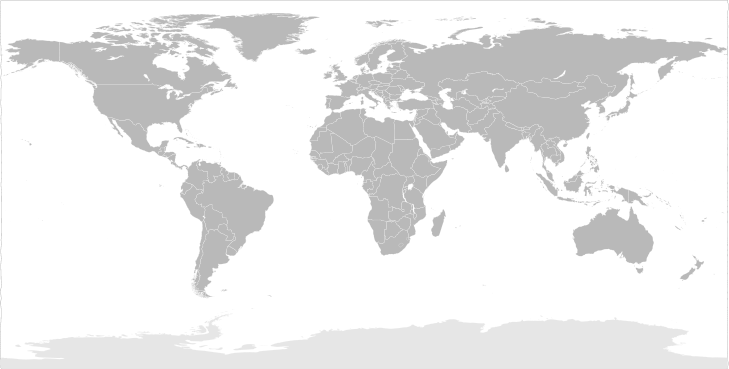
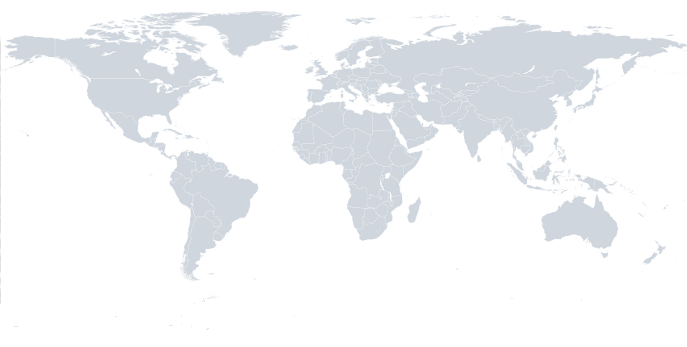
Removed unused imgs from public, added new world map

diff --git a/public/js/dashboard.js b/public/js/dashboard.js
@@ -1,5 +1,57 @@
 /*global $ */
 
+var countries = { "--": "N/A", "AP": "Asia/Pacific Region","EU": "Europe","AD":"Andorra","AE":"United Arab Emirates",
+	  "AF": "Afghanistan","AG":"Antigua and Barbuda","AI":"Anguilla","AL":"Albania","AM":"Armenia","AN":"Netherlands Antilles",
+	  "AO":"Angola","AQ":"Antarctica","AR":"Argentina","AS":"American Samoa","AT":"Austria","AU":"Australia","AW":"Aruba",
+	  "AZ":"Azerbaijan","BA":"Bosnia and Herzegovina","BB":"Barbados",
+	  "BD":"Bangladesh","BE":"Belgium","BF":"Burkina Faso","BG":"Bulgaria","BH":"Bahrain","BI":"Burundi","BJ":"Benin",
+	  "BM":"Bermuda","BN":"Brunei Darussalam","BO":"Bolivia",
+	  "BR":"Brazil","BS":"Bahamas","BT":"Bhutan","BV":"Bouvet Island","BW":"Botswana","BY":"Belarus","BZ":"Belize",
+	  "CA":"Canada","CC":"Cocos (Keeling) Islands","CD":"Congo, The Democratic Republic of the",
+	  "CF":"Central African Republic","CG":"Congo","CH":"Switzerland","CI":"Cote D'Ivoire","CK":"Cook Islands",
+	  "CL":"Chile","CM":"Cameroon","CN":"China","CO":"Colombia","CR":"Costa Rica",
+	  "CU":"Cuba","CV":"Cape Verde","CX":"Christmas Island","CY":"Cyprus","CZ":"Czech Republic","DE":"Germany","DJ":"Djibouti",
+	  "DK":"Denmark","DM":"Dominica","DO":"Dominican Republic",
+	  "DZ":"Algeria","EC":"Ecuador","EE":"Estonia","EG":"Egypt","EH":"Western Sahara","ER":"Eritrea","ES":"Spain","ET":"Ethiopia",
+	  "FI":"Finland","FJ":"Fiji",
+	  "FK":"Falkland Islands (Malvinas)","FM":"Micronesia, Federated States of","FO":"Faroe Islands","FR":"France","FX":"France, Metropolitan",
+	  "GA":"Gabon","GB":"United Kingdom","GD":"Grenada","GE":"Georgia","GF":"French Guiana",
+	  "GH":"Ghana","GI":"Gibraltar","GL":"Greenland","GM":"Gambia","GN":"Guinea","GP":"Guadeloupe","GQ":"Equatorial Guinea",
+	  "GR":"Greece","GS":"South Georgia and the South Sandwich Islands","GT":"Guatemala",
+	  "GU":"Guam","GW":"Guinea-Bissau","GY":"Guyana","HK":"Hong Kong","HM":"Heard Island and McDonald Islands","HN":"Honduras",
+	  "HR":"Croatia","HT":"Haiti","HU":"Hungary","ID":"Indonesia",
+	  "IE":"Ireland","IL":"Israel","IN":"India","IO":"British Indian Ocean Territory","IQ":"Iraq","IR":"Iran, Islamic Republic of",
+	  "IS":"Iceland","IT":"Italy","JM":"Jamaica","JO":"Jordan",
+	  "JP":"Japan","KE":"Kenya","KG":"Kyrgyzstan","KH":"Cambodia","KI":"Kiribati","KM":"Comoros","KN":"Saint Kitts and Nevis",
+	  "KP":"Korea, Democratic People's Republic of","KR":"Korea, Republic of","KW":"Kuwait",
+	  "KY":"Cayman Islands","KZ":"Kazakhstan","LA":"Lao People's Democratic Republic","LB":"Lebanon","LC":"Saint Lucia",
+	  "LI":"Liechtenstein","LK":"Sri Lanka","LR":"Liberia","LS":"Lesotho","LT":"Lithuania",
+	  "LU":"Luxembourg","LV":"Latvia","LY":"Libyan Arab Jamahiriya","MA":"Morocco","MC":"Monaco","MD":"Moldova, Republic of",
+	  "MG":"Madagascar","MH":"Marshall Islands","MK":"Macedonia","ML":"Mali",
+	  "MM":"Myanmar","MN":"Mongolia","MO":"Macau","MP":"Northern Mariana Islands","MQ":"Martinique","MR":"Mauritania",
+	  "MS":"Montserrat","MT":"Malta","MU":"Mauritius","MV":"Maldives",
+	  "MW":"Malawi","MX":"Mexico","MY":"Malaysia","MZ":"Mozambique","NA":"Namibia","NC":"New Caledonia","NE":"Niger",
+	  "NF":"Norfolk Island","NG":"Nigeria","NI":"Nicaragua",
+	  "NL":"Netherlands","NO":"Norway","NP":"Nepal","NR":"Nauru","NU":"Niue","NZ":"New Zealand","OM":"Oman","PA":"Panama","PE":"Peru",
+	  "PF":"French Polynesia",
+	  "PG":"Papua New Guinea","PH":"Philippines","PK":"Pakistan","PL":"Poland","PM":"Saint Pierre and Miquelon",
+	  "PN":"Pitcairn Islands","PR":"Puerto Rico","PS":"Palestinian Territory","PT":"Portugal","PW":"Palau",
+	  "PY":"Paraguay","QA":"Qatar","RE":"Reunion","RO":"Romania","RU":"Russian Federation","RW":"Rwanda","SA":"Saudi Arabia",
+	  "SB":"Solomon Islands","SC":"Seychelles","SD":"Sudan",
+	  "SE":"Sweden","SG":"Singapore","SH":"Saint Helena","SI":"Slovenia","SJ":"Svalbard and Jan Mayen","SK":"Slovakia",
+	  "SL":"Sierra Leone","SM":"San Marino","SN":"Senegal","SO":"Somalia",
+	  "SR":"Suriname","ST":"Sao Tome and Principe","SV":"El Salvador","SY":"Syrian Arab Republic","SZ":"Swaziland",
+	  "TC":"Turks and Caicos Islands","TD":"Chad","TF":"French Southern Territories","TG":"Togo","TH":"Thailand",
+	  "TJ":"Tajikistan","TK":"Tokelau","TM":"Turkmenistan","TN":"Tunisia","TO":"Tonga","TL":"Timor-Leste","TR":"Turkey",
+	  "TT":"Trinidad and Tobago","TV":"Tuvalu","TW":"Taiwan",
+	  "TZ":"Tanzania, United Republic of","UA":"Ukraine","UG":"Uganda","UM":"United States Minor Outlying Islands",
+	  "US":"United States","UY":"Uruguay","UZ":"Uzbekistan","VA":"Holy See (Vatican City State)","VC":"Saint Vincent and the Grenadines",
+	  "VE":"Venezuela",
+	  "VG":"Virgin Islands, British","VI":"Virgin Islands, U.S.","VN":"Vietnam","VU":"Vanuatu","WF":"Wallis and Futuna",
+	  "WS":"Samoa","YE":"Yemen","YT":"Mayotte","RS":"Serbia","ZA":"South Africa","ZM":"Zambia","ME":"Montenegro",
+  "ZW":"Zimbabwe","A1":"Anonymous Proxy","A2":"Satellite Provider","O1":"Other","AX":"Aland Islands","GG":"Guernsey",
+  "IM":"Isle of Man","JE":"Jersey","BL": "Saint Barthelemy","MF":"Saint Martin"};
+
 function Chart()
 {
 	this.chartData = [];
@@ -216,7 +268,7 @@ if (!dashboard)
 			//private
 			lookupCountry: function (code)
 			{
-				return code;
+				return countries[code];
 			},
 			
 			shortenText: function (text)

diff --git a/views/Dashboard.html b/views/Dashboard.html
@@ -151,7 +151,7 @@ $(function (){
 	</div></div>
 	<div class="span-18 last" style="height:400px;"><div class="window">
 		<h2>Live Map</h2>
-		<img src="/img/world.png" height="369" />
+		<img src="/img/world.png" height="349" />
 	</div></div> 
 	</div>
 	
